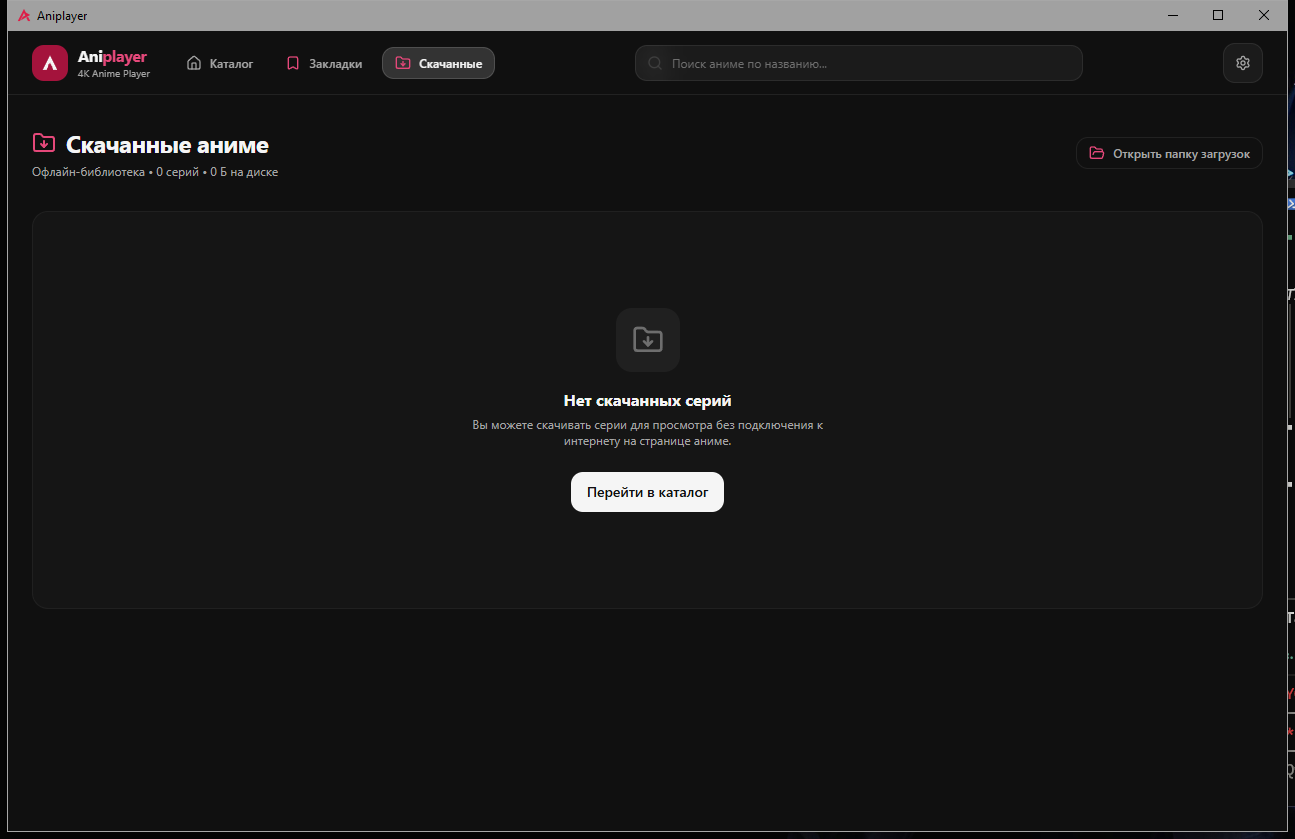
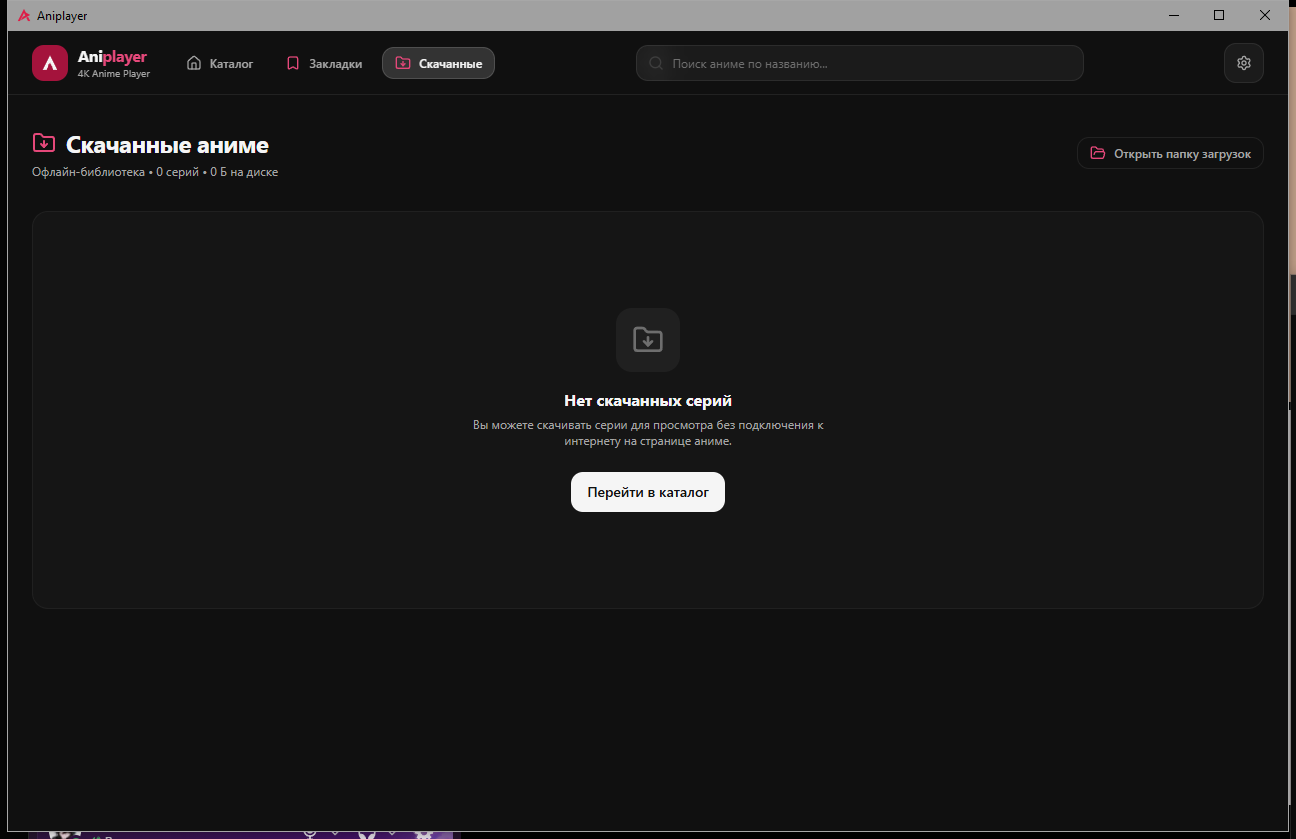
fix(ui): close the gaps the token migration opened (#68)
Reviewing the finished diff found four things the palette swap had quietly
cost or left undocumented. Running text sat on ink-3, where the crimson-free
ramp drops below contrast, so placeholder labels and hints moved up to ink-2
and ink-3 is now only decoration, disabled states and the timecode separator.
The skip toast still carried animate-in classes from a plugin the project does
not install — they compiled to nothing, so they are gone rather than kept as a
promise. The guard scan now reads css and html under src too, and the Biome
exemption is pinned to the one mockup file instead of a whole directory.

ADR 0018 contradicted the mockup it points at: it still said card hover is a
tone change with no scale, while the approved sheet lifts the card. The ADR now
states the hover the user signed off on, records the colour roles by name, and
says outright that running text never sits on ink-3; the glossary carries the
token role as vocabulary.

diff --git a/tests/test_night_cinema_tokens.test.ts b/tests/test_night_cinema_tokens.test.ts
@@ -7,16 +7,20 @@ import { describe, expect, it } from "vitest";
  * wave of [ADR 0018](../docs/adr/0018-night-cinema-design-system.md): `src/index.css` is the single
  * source of the night cinema design decisions, and every screen reads them and nothing else.
  *
- * Seam: the stylesheet's `@theme` block read as text, the way `tests/test_bundle_split.test.ts`
- * reads build output. The values below are copied from the ticket and from the approved mockup
- * (`docs/design/night-cinema-mockup.html`), not from the file under test, so the assertion is
- * independent of the implementation it checks.
+ * Two seams, both read as text the way `tests/test_bundle_split.test.ts` reads build output:
  *
- * It catches a token value drifting away from the approved palette, the stock rose palette
- * (Tailwind's own `rose`/`slate` ramp) being reintroduced as a theme variable, glass or motion
- * values being written into a component instead of the theme. It misses whether the palette looks
- * right: the mockup, the screenshots in `docs/evidence/68/` and the `review-animations` pass are
- * the checks for that.
+ * 1. the `@theme` block, pinned to the values the ticket and the approved mockup
+ *    (`docs/design/night-cinema-mockup.html`) name — copied here, not read from the file under
+ *    test, so the assertion is independent of the implementation it checks;
+ * 2. the interface sources, which may not name a colour the theme does not define.
+ *
+ * It catches a token value drifting away from the approved palette, the stock ramps being
+ * reintroduced as theme variables or as classes, glass or motion values written into a component
+ * instead of the theme, and a colour literal painted into markup. It misses taste: whether the
+ * palette looks right is the mockup, the screenshots in `docs/evidence/68/` and the
+ * `review-animations` pass. It also misses a colour that reaches the screen through a variable of
+ * its own making (`border-ink/15` is token-based and hand-tuned), which is a composition question
+ * for the later waves of #67, not a token question.
  */
 const REPO_ROOT = resolve(import.meta.dirname, "..");
 const CSS_PATH = "src/index.css";
@@ -161,7 +165,7 @@ function sourceFiles(dir: string): string[] {
   for (const entry of readdirSync(dir)) {
     const full = join(dir, entry);
     if (statSync(full).isDirectory()) found.push(...sourceFiles(full));
-    else if (/\.(ts|tsx)$/.test(entry)) found.push(full);
+    else if (/\.(ts|tsx|css|html)$/.test(entry)) found.push(full);
   }
   return found;
 }

diff --git a/src/features/player/ui/SkipToast.tsx b/src/features/player/ui/SkipToast.tsx
@@ -26,7 +26,7 @@ export function SkipToast({ type, countdownSeconds, onSkip }: SkipToastProps) {
 
   if (type === "next_episode") {
     return (
-      <div className="flex items-center gap-3 rounded-2xl border border-accent/40 bg-scrim/85 px-4 py-2.5 shadow-2xl backdrop-blur-md animate-in fade-in slide-in-from-bottom-3 duration-300">
+      <div className="flex items-center gap-3 rounded-2xl border border-accent/40 bg-scrim/85 px-4 py-2.5 shadow-2xl backdrop-blur-md">
         <span className="text-xs font-semibold text-ink">
           Следующий эпизод через{" "}
           <span className="text-accent-ink font-bold">{countdownSeconds ?? 0}</span> с
@@ -47,7 +47,7 @@ export function SkipToast({ type, countdownSeconds, onSkip }: SkipToastProps) {
   const label = type === "opening" ? "опенинг" : "эндинг";
 
   return (
-    <div className="flex items-center gap-3 rounded-2xl border border-ink/20 bg-scrim/85 px-4 py-2.5 shadow-2xl backdrop-blur-md animate-in fade-in slide-in-from-bottom-3 duration-300">
+    <div className="flex items-center gap-3 rounded-2xl border border-ink/20 bg-scrim/85 px-4 py-2.5 shadow-2xl backdrop-blur-md">
       <Button
         variant="secondary"
         size="sm"

diff --git a/src/features/release/ui/RelatedTab.tsx b/src/features/release/ui/RelatedTab.tsx
@@ -31,7 +31,7 @@ export function RelatedTab({
       <div className="flex min-h-[200px] flex-col items-center justify-center rounded-xl border border-dashed border-line bg-surface-1/40 p-6 text-center text-ink-2">
         <Film className="mb-2 h-10 w-10 text-ink-3" />
         <h4 className="text-sm font-semibold text-ink-2">Нет связанных сезонов</h4>
-        <p className="mt-1 text-xs text-ink-3">
+        <p className="mt-1 text-xs text-ink-2">
           Для этого аниме нет других частей или фильмов в базе
         </p>
       </div>

diff --git a/src/features/player/ui/EpisodeDrawer.tsx b/src/features/player/ui/EpisodeDrawer.tsx
@@ -94,7 +94,7 @@ export function EpisodeDrawer({
                       className="h-full w-full object-cover"
                     />
                   ) : (
-                    <div className="flex h-full w-full items-center justify-center text-[10px] text-ink-3">
+                    <div className="flex h-full w-full items-center justify-center text-[10px] text-ink-2">
                       #{ep.ordinal}
                     </div>
                   )}

diff --git a/src/features/continue-watching/ui/ContinueWatchingCard.tsx b/src/features/continue-watching/ui/ContinueWatchingCard.tsx
@@ -46,7 +46,7 @@ export function ContinueWatchingCard({
             className="h-full w-full object-cover transition-transform duration-300 group-hover:scale-105"
           />
         ) : (
-          <div className="flex h-full w-full items-center justify-center bg-surface-1 text-[10px] text-ink-3">
+          <div className="flex h-full w-full items-center justify-center bg-surface-1 text-[10px] text-ink-2">
             N/A
           </div>
         )}

diff --git a/src/features/downloads/ui/DownloadsView.tsx b/src/features/downloads/ui/DownloadsView.tsx
@@ -118,7 +118,7 @@ function DownloadedReleaseCard({
             {poster ? (
               <img src={poster} alt={title} className="h-full w-full object-cover" />
             ) : (
-              <div className="flex h-full w-full items-center justify-center text-[10px] text-ink-3">
+              <div className="flex h-full w-full items-center justify-center text-[10px] text-ink-2">
                 N/A
               </div>
             )}

diff --git a/src/features/release/ui/ReleaseHero.tsx b/src/features/release/ui/ReleaseHero.tsx
@@ -75,7 +75,7 @@ export function ReleaseHero({
             className="h-full w-full object-cover"
           />
         ) : (
-          <div className="flex h-full w-full items-center justify-center text-ink-3">
+          <div className="flex h-full w-full items-center justify-center text-ink-2">
             Нет постера
           </div>
         )}

diff --git a/GLOSSARY.md b/GLOSSARY.md
@@ -110,6 +110,10 @@ _Avoid_: dark theme, new design, redesign style, mode
 The single accent of the interface — a deep red used for fills, bars and outlines (played progress, hover outline, current states). Small accent text on dark uses a lightened shade to keep contrast. There are no badges, chips or tinted labels; the only ornament allowed on the player is glass — translucent blurred floating overlays (skip prompt, quality and speed pickers).
 _Avoid_: brand color, orange, highlight color, badge
 
+**Design token**:
+One named visual decision held in `src/index.css` and read by every screen: the colour roles (ground, surface-1, surface-2, ink, ink-2, ink-3, line, accent, accent-ink, glass, glass-line, scrim), the glass blur, and the motion curve and durations. Interface code names a role and never restates a colour or a duration; the theme switches Tailwind's own ramps off, so a name outside the roles compiles to nothing.
+_Avoid_: theme variable, palette entry, hardcoded color, magic number
+
 **Timecode**:
 The signature typographic treatment of the interface: every duration, playback position and Episode Ordinal is set in one consistent tabular-numeral style, borrowed from the player's own readouts. In the player the running position takes the accent color.
 _Avoid_: mono labels, code font, counters
